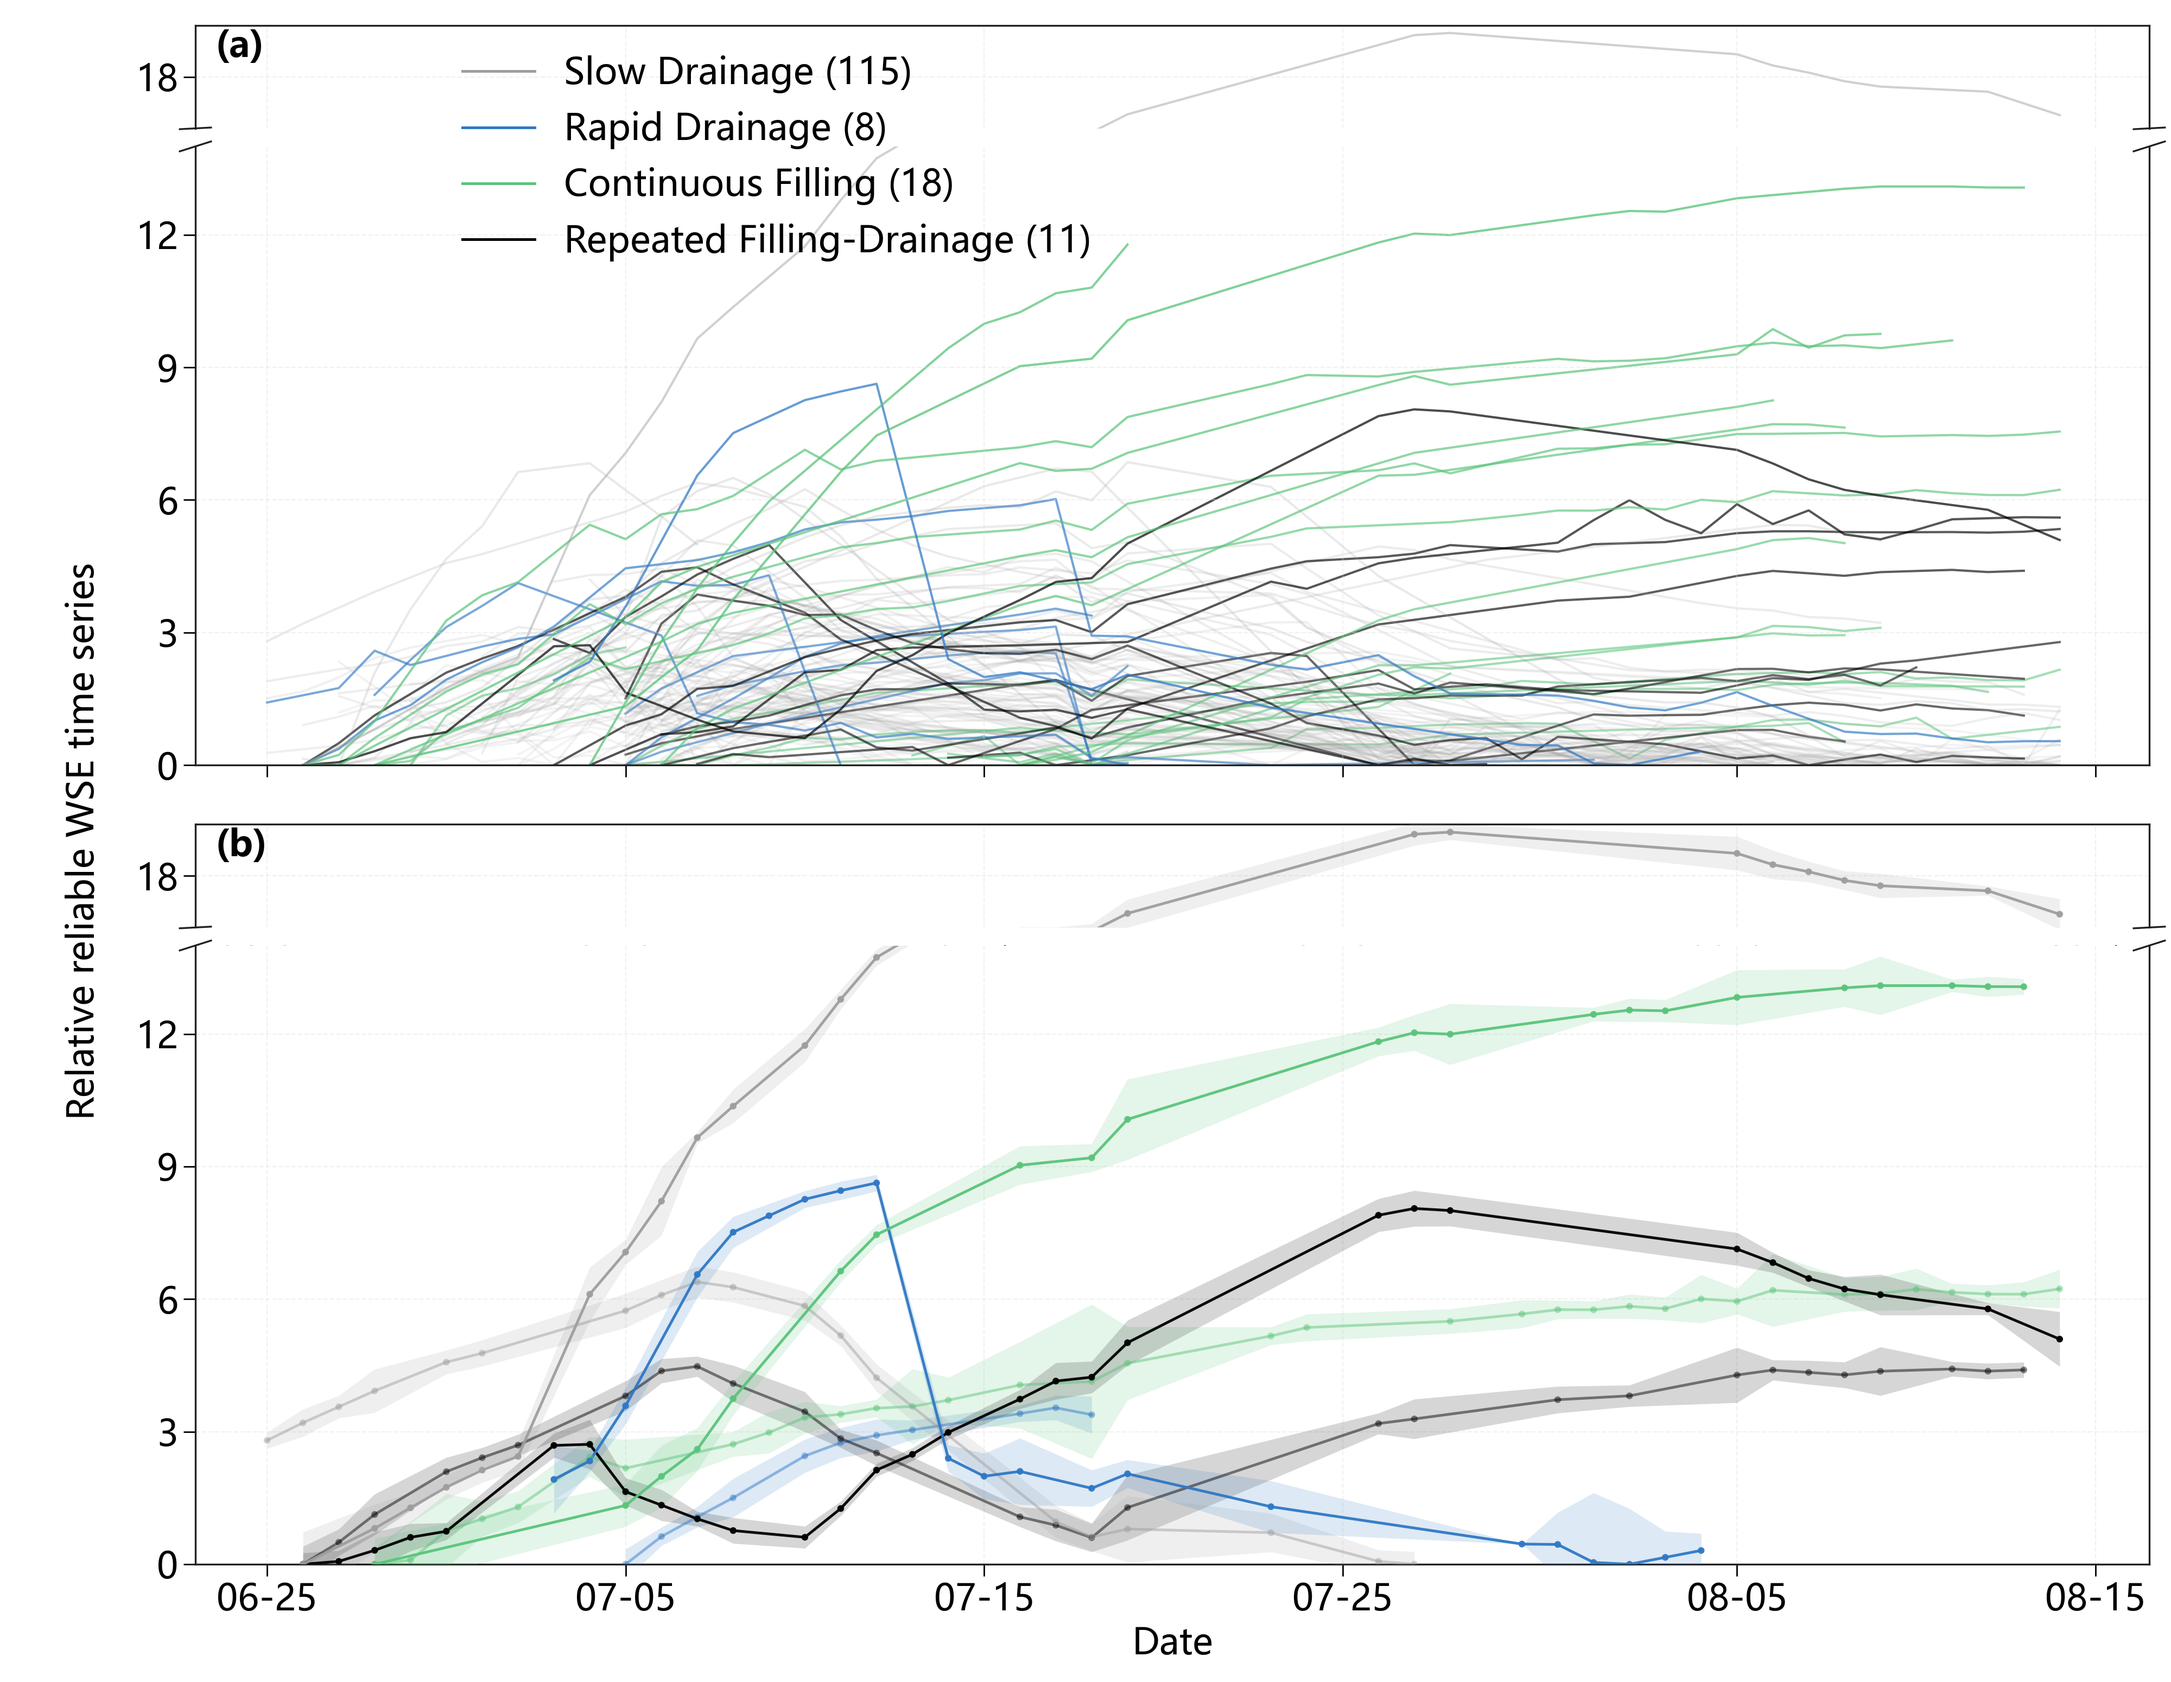
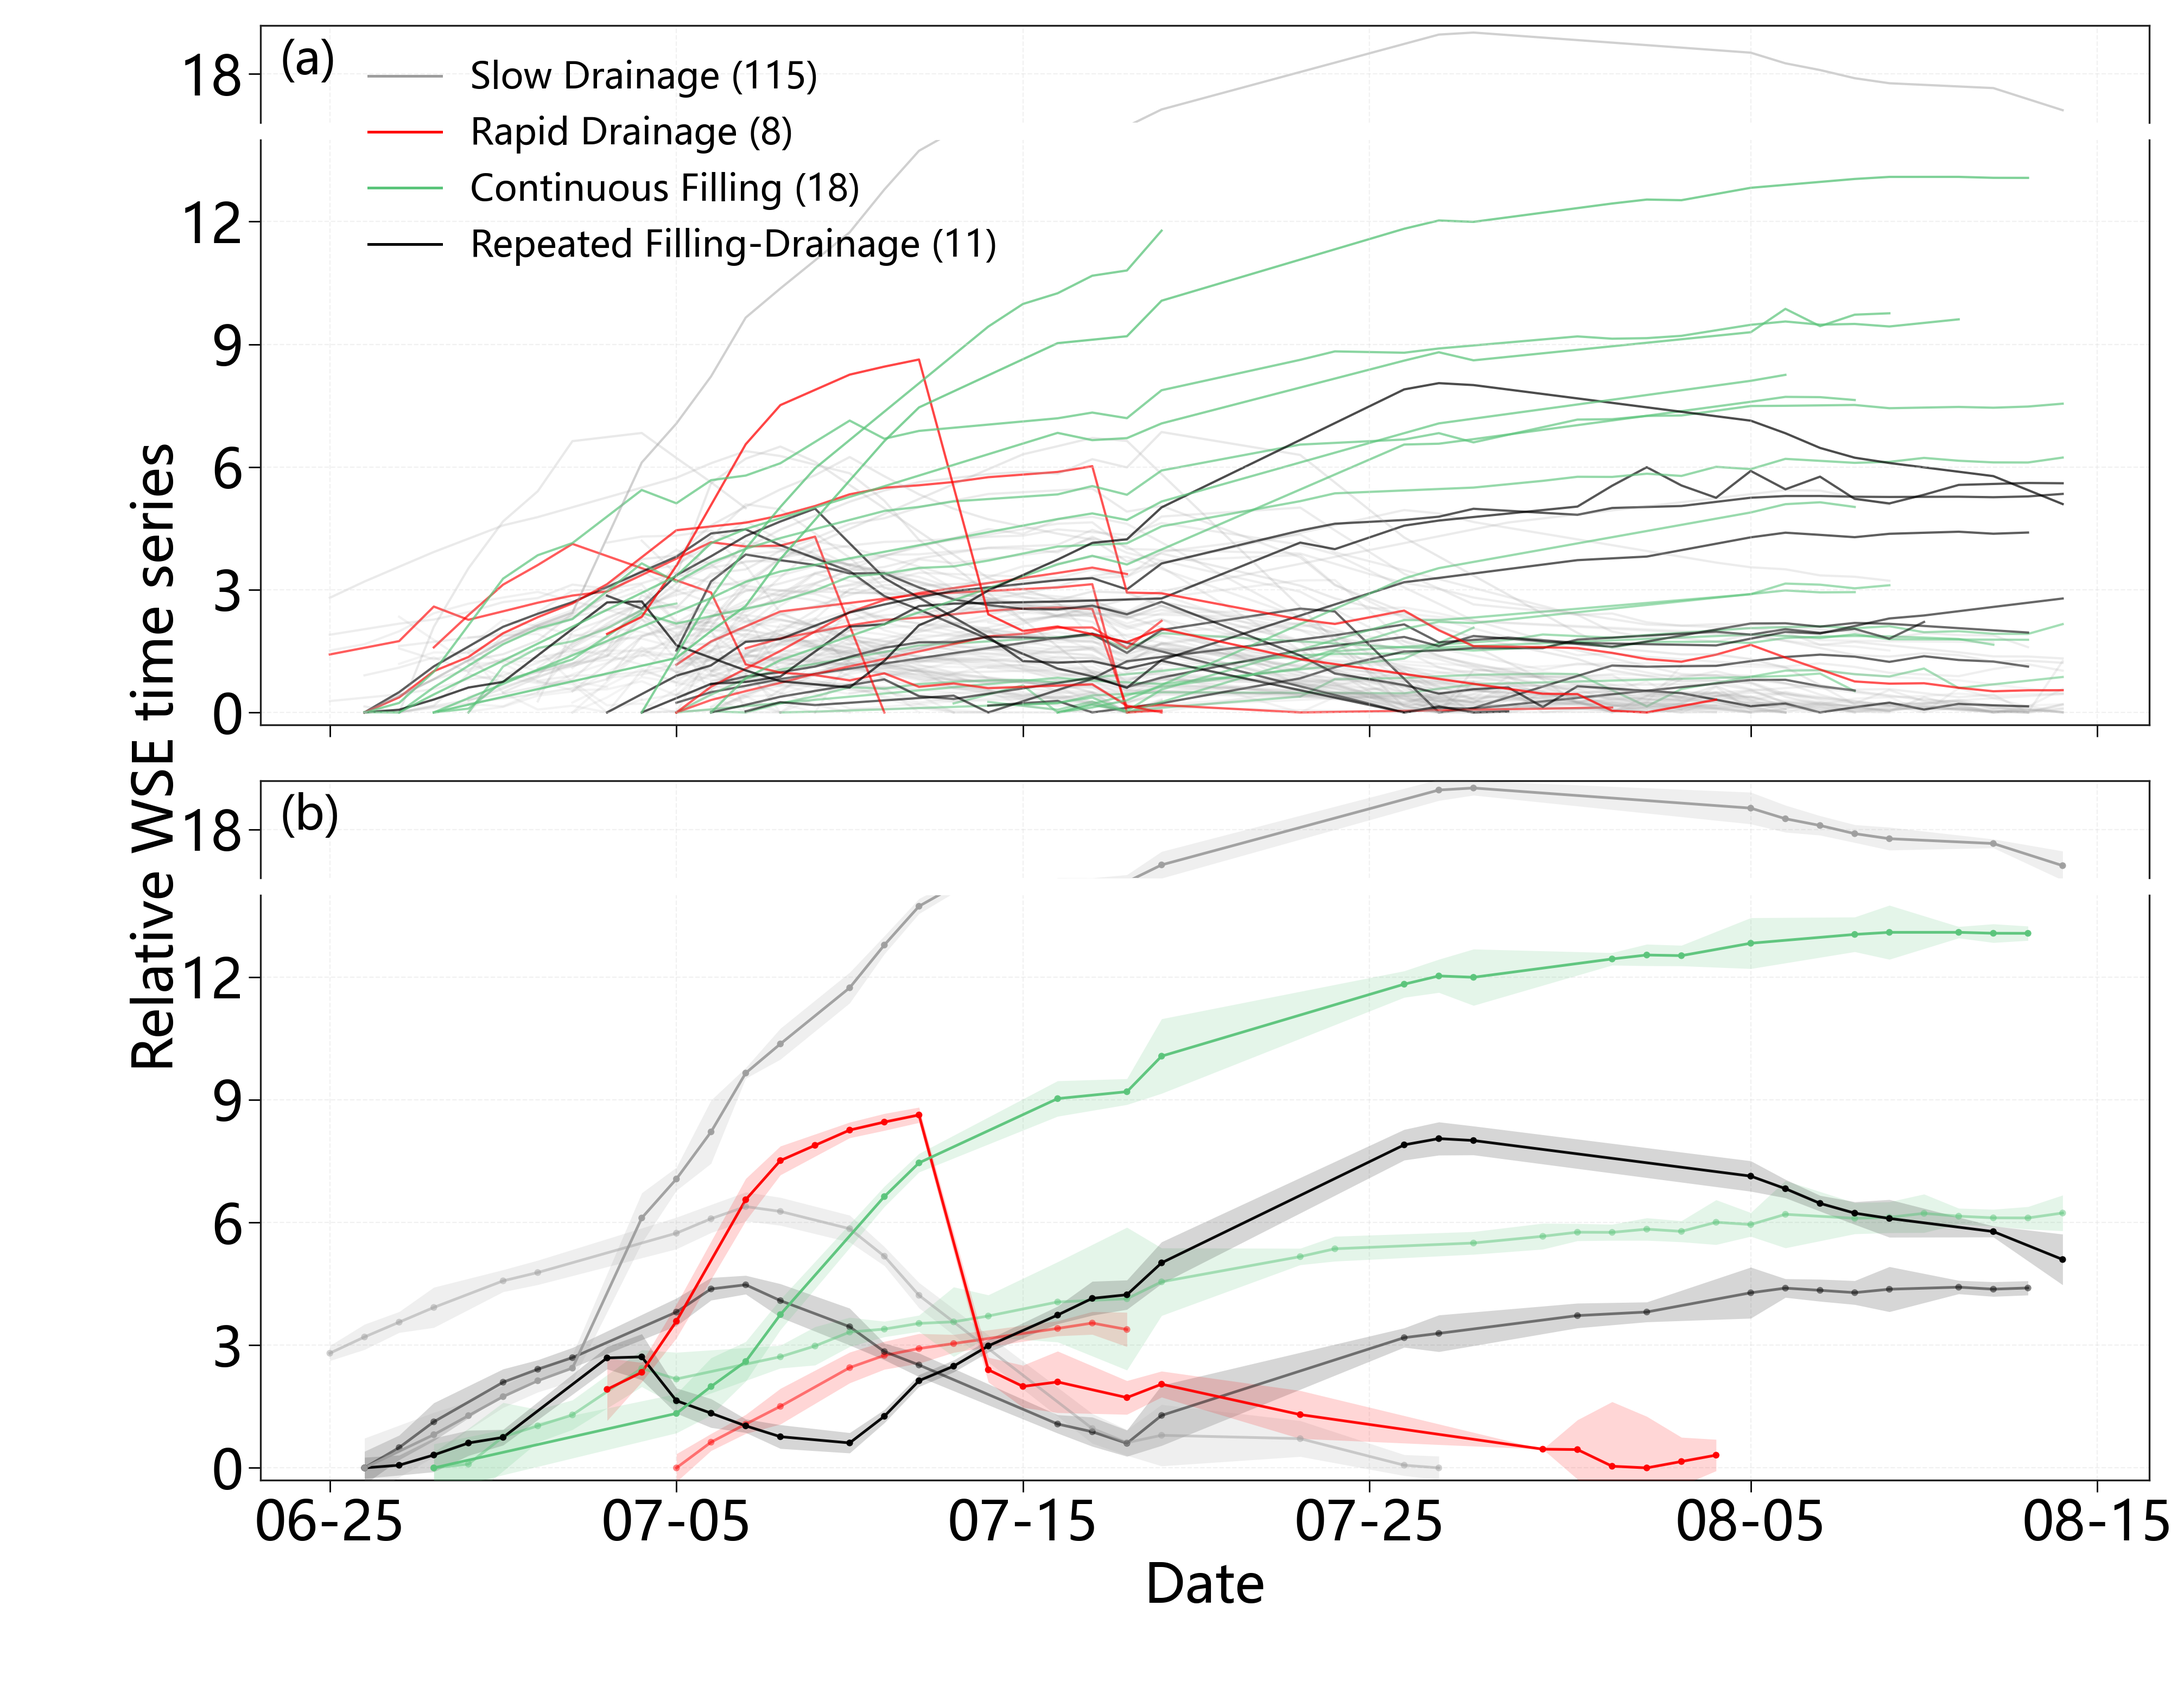
Update final WSE and volume figures

diff --git a/code/northeast/10c_plot_representative_runoff_volume.py b/code/northeast/10c_plot_representative_runoff_volume.py
@@ -13,6 +13,7 @@ import matplotlib
 matplotlib.use("Agg")
 import matplotlib.dates as mdates
 import matplotlib.pyplot as plt
+from matplotlib.ticker import FormatStrFormatter
 
 
 ROOT = Path(__file__).resolve().parent.parent
@@ -29,13 +30,15 @@ NO_BUFFER_BASIN_CSV = INPUT_ROOT / "six_lake_buffer_sensitivity_10m.csv"
 
 DPI = 300
 # Keep the 07_3 look, but slightly taller so the row is less flattened.
-FIGSIZE = (17.0, 4.10)
+FIGSIZE = (17.0, 5.10)
 
 FONT_FAMILY = "Arial"
 LABEL_SIZE = 20
-AXIS_LABEL_SIZE = 16
+AXIS_LABEL_SIZE = 24
+DATE_LABEL_SIZE = 30
+UNIT_LABEL_SIZE = 18
 LEGEND_SIZE = 14
-TICK_SIZE = 18
+TICK_SIZE = 27
 SPINE_WIDTH = 1.35
 TICK_WIDTH = 1.35
 TICK_LENGTH = 8
@@ -53,7 +56,7 @@ FIT_ANNOTATION_HALF_SPACING = 0.85
 RUNOFF_MM_PER_1E6M3_PER_KM2 = 1000.0
 LEFT_LABEL_TEXT = r"$10^6$ m$^3$"
 RIGHT_UNIT_TEXT = "mm"
-LEFT_AXIS_LABEL = "Water volume change"
+LEFT_AXIS_LABEL = "SGL storage variation"
 RIGHT_AXIS_LABEL = "Cumulative runoff"
 RATE_LABEL_STYLE = "parallel"
 
@@ -252,6 +255,12 @@ def nice_runoff_axis(values: np.ndarray) -> tuple[float, float, np.ndarray]:
         top = step * 4
         ticks = np.arange(0.0, top + step * 0.5, step)
     return float(-0.04 * top), float(top), ticks
+
+
+def sparse_axis_ticks(ticks: np.ndarray) -> np.ndarray:
+    """Reduce dense y tick labels while retaining the existing axis limits."""
+    ticks = np.asarray(ticks, dtype=float)
+    return ticks[::2] if ticks.size > 4 else ticks
 
 
 def volume_to_runoff_mm(volume_1e6_m3: np.ndarray | float, basin_area_km2: float) -> np.ndarray | float:
@@ -614,19 +623,21 @@ def setup_dual_axes(
 ) -> tuple[plt.Axes, plt.Axes]:
     """Plot volume on the left and equivalent water depth on the right."""
     ax_left.set_ylim(volume_ymin, volume_ymax)
-    ax_left.set_yticks(volume_yticks)
+    ax_left.set_yticks(sparse_axis_ticks(volume_yticks))
+    ax_left.yaxis.set_major_formatter(FormatStrFormatter("%.1f"))
     ax_left.yaxis.set_label_position("left")
     ax_left.yaxis.tick_left()
     ax_left.spines["right"].set_visible(False)
     ax_left.tick_params(axis="y", labelsize=TICK_SIZE, width=TICK_WIDTH, length=TICK_LENGTH, pad=5)
     ax_left.set_ylabel(LEFT_AXIS_LABEL, fontsize=AXIS_LABEL_SIZE, fontweight="bold", labelpad=10)
-    ax_left.text(-0.005, 1.015, LEFT_LABEL_TEXT, transform=ax_left.transAxes, ha="left", va="bottom", fontsize=TICK_SIZE)
+    ax_left.yaxis.set_label_coords(-0.085, 0.5)
+    ax_left.text(-0.005, 1.015, LEFT_LABEL_TEXT, transform=ax_left.transAxes, ha="left", va="bottom", fontsize=UNIT_LABEL_SIZE)
 
     runoff_limits = volume_to_runoff_mm(np.array([volume_ymin, volume_ymax]), basin_area_km2)
     runoff_ymin, runoff_ymax, runoff_yticks = nice_runoff_axis(runoff_limits)
     ax_right = ax_left.twinx()
     ax_right.set_ylim(runoff_ymin, runoff_ymax)
-    ax_right.set_yticks(runoff_yticks)
+    ax_right.set_yticks(sparse_axis_ticks(runoff_yticks))
     ax_right.yaxis.tick_right()
     ax_right.yaxis.set_label_position("right")
     ax_right.spines["left"].set_visible(False)
@@ -654,7 +665,7 @@ def setup_dual_axes(
         transform=ax_right.transAxes,
         ha="right",
         va="bottom",
-        fontsize=TICK_SIZE,
+        fontsize=UNIT_LABEL_SIZE,
         color=runoff_color,
     )
     return ax_left, ax_right
@@ -736,17 +747,26 @@ def draw_single_lake(lake: dict, df: pd.DataFrame) -> None:
     ax.set_xlim(X_MIN, X_MAX)
     ax.set_xticks(X_TICKS)
     ax.xaxis.set_major_formatter(mdates.DateFormatter("%m-%d"))
-    ax.tick_params(axis="x", labelsize=TICK_SIZE, width=TICK_WIDTH, length=TICK_LENGTH, pad=5)
+    show_date_labels = int(lake["lake_id"]) == 30
+    ax.tick_params(
+        axis="x",
+        labelsize=TICK_SIZE,
+        width=TICK_WIDTH,
+        length=TICK_LENGTH,
+        pad=5,
+        labelbottom=show_date_labels,
+    )
+    ax_runoff.tick_params(axis="x", labelbottom=False)
     ax.grid(False)
     ax.set_xlabel(
         "Date" if int(lake["lake_id"]) == 30 else "",
-        fontsize=LABEL_SIZE,
+        fontsize=DATE_LABEL_SIZE,
         fontweight="bold",
         labelpad=8,
     )
     ax_runoff.grid(False)
 
-    fig.subplots_adjust(left=0.11, right=0.90, bottom=0.22, top=0.92)
+    fig.subplots_adjust(left=0.12, right=0.86, bottom=0.24, top=0.86)
     out_png = OUT_DIR / f"{lake['out_name']}.png"
     out_tif = OUT_DIR / f"{lake['out_name']}.tif"
     fig.savefig(out_png, dpi=DPI)
@@ -843,7 +863,15 @@ def draw_stacked_lake(lake: dict, df: pd.DataFrame) -> None:
     ax.set_xlim(X_MIN, X_MAX)
     ax.set_xticks(X_TICKS)
     ax.xaxis.set_major_formatter(mdates.DateFormatter("%m-%d"))
-    ax.tick_params(axis="x", labelsize=TICK_SIZE, width=TICK_WIDTH, length=TICK_LENGTH, pad=5)
+    ax.tick_params(
+        axis="x",
+        labelsize=TICK_SIZE,
+        width=TICK_WIDTH,
+        length=TICK_LENGTH,
+        pad=5,
+        labelbottom=False,
+    )
+    ax_runoff.tick_params(axis="x", labelbottom=False)
     ax.grid(False)
     ax.set_xlabel("")
     ax_runoff.grid(False)
@@ -853,7 +881,7 @@ def draw_stacked_lake(lake: dict, df: pd.DataFrame) -> None:
     legend.get_frame().set_edgecolor("none")
     legend.get_frame().set_alpha(0.86)
 
-    fig.subplots_adjust(left=0.11, right=0.90, bottom=0.22, top=0.92)
+    fig.subplots_adjust(left=0.12, right=0.86, bottom=0.24, top=0.86)
     out_png = OUT_DIR / f"{lake['out_name']}.png"
     out_tif = OUT_DIR / f"{lake['out_name']}.tif"
     fig.savefig(out_png, dpi=DPI)
@@ -913,13 +941,13 @@ def main() -> None:
     for image, box in zip(images, content_boxes):
         crop_box = (
             common_left,
-            max(0, box[1] - 10),
+            max(0, box[1] - 18),
             common_right,
-            min(size[1], box[3] + 10),
+            min(size[1], box[3] + 15),
         )
         cropped.append(image.crop(crop_box))
     row_width = cropped[0].width
-    row_gap = 12
+    row_gap = 2
     total_height = sum(image.height for image in cropped) + row_gap * (len(cropped) - 1)
     stacked = Image.new("RGB", (row_width, total_height), "white")
     y = 0

diff --git a/code/southwest/_engine/07_4_plot_classification.py b/code/southwest/_engine/07_4_plot_classification.py
@@ -124,7 +124,7 @@ CATEGORY_PLOT_SETTINGS = {
     },
     "sudden_drainage": {
         "label": "Sudden Drainage",
-        "color": "#2F78C4",
+        "color": "#FF0000",
         "top_n": 2,
         "manual_branch_pairs": [(79, 1), (123, 1)],
     },
@@ -253,8 +253,8 @@ CURVE_X_TICK_START = "2024-06-05"
 CURVE_X_TICK_DATE_FORMAT = "%m-%d"
 CURVE_X_TICK_ROTATION = 0
 CURVE_TITLE_FONT_SIZE = 14
-CURVE_AXIS_LABEL_FONT_SIZE = 24
-CURVE_TICK_FONT_SIZE = 24
+CURVE_AXIS_LABEL_FONT_SIZE = 36
+CURVE_TICK_FONT_SIZE = 36
 CURVE_TICK_MARK_LENGTH = 8
 CURVE_TICK_MARK_WIDTH = 1
 CURVE_COUNT_TEXT_FONT_SIZE = 12
@@ -275,10 +275,10 @@ CURVE_SPINE_LINEWIDTH = 1.2
 CURVE_COUNT_BOX_ALPHA = 0.8
 CURVE_SHOW_LEGEND = True
 CURVE_EXPORT_STANDALONE_LEGEND = True
-CURVE_LEGEND_FONT_SIZE = CURVE_TICK_FONT_SIZE
+CURVE_LEGEND_FONT_SIZE = 24
 CURVE_LEGEND_LOC = "upper left"
-CURVE_LEGEND_BBOX_TO_ANCHOR = (0.01, 0.98)
-CURVE_LEGEND_BBOX_TO_ANCHOR_BROKEN = (0.015, 1.2)
+CURVE_LEGEND_BBOX_TO_ANCHOR = (0.04, 0.97)
+CURVE_LEGEND_BBOX_TO_ANCHOR_BROKEN = (0.04, 1.0)
 CURVE_LEGEND_FACE_COLOR = "none"
 CURVE_LEGEND_EDGE_COLOR = "none"
 CURVE_LEGEND_FRAME_ALPHA = 0.0
@@ -919,19 +919,11 @@ def apply_broken_y_axis_format(ax_top, ax_bottom):
     ax_bottom.set_ylim(y_min, float(CURVE_BROKEN_Y_LOWER_MAX))
     ax_top.set_ylim(float(CURVE_BROKEN_Y_UPPER_MIN), y_max)
 
-    # Hide touching spines and add break marks.
+    # Hide touching spines; the axis gap alone indicates the truncation.
     ax_top.spines["bottom"].set_visible(False)
     ax_bottom.spines["top"].set_visible(False)
-    ax_top.tick_params(labeltop=False, bottom=False)
+    ax_top.tick_params(axis="x", top=False, bottom=False, labeltop=False, labelbottom=False)
     ax_bottom.xaxis.tick_bottom()
-
-    d = 0.008
-    kwargs = dict(transform=ax_top.transAxes, color=CURVE_SPINE_COLOR, clip_on=False, linewidth=CURVE_SPINE_LINEWIDTH)
-    ax_top.plot((-d, +d), (-d, +d), **kwargs)
-    ax_top.plot((1 - d, 1 + d), (-d, +d), **kwargs)
-    kwargs.update(transform=ax_bottom.transAxes)
-    ax_bottom.plot((-d, +d), (1 - d, 1 + d), **kwargs)
-    ax_bottom.plot((1 - d, 1 + d), (1 - d, 1 + d), **kwargs)
 
     lower_ticks = [
         v

diff --git a/code/southwest/_engine/07_4_plot_classification_combined.py b/code/southwest/_engine/07_4_plot_classification_combined.py
@@ -84,12 +84,9 @@ def style_curve_axes(
             ax.set_xlabel("")
         else:
             ax.set_xlabel(base.CURVE_X_LABEL_TEXT, fontsize=base.CURVE_AXIS_LABEL_FONT_SIZE)
-        if base.CURVE_USE_BROKEN_Y_AXIS and ax_top is not None:
-            ax.set_ylabel("")
+        ax.set_ylabel("")
+        if ax_top is not None:
             ax_top.set_ylabel("")
-            fig.supylabel("Relative WSE time series", fontsize=base.CURVE_AXIS_LABEL_FONT_SIZE, x=0.04)
-        else:
-            ax.set_ylabel("Relative WSE time series", fontsize=base.CURVE_AXIS_LABEL_FONT_SIZE)
     else:
         ax.set_xlabel("")
         ax.set_ylabel("")
@@ -315,13 +312,13 @@ def plot_same_color_panel(
     if show_legend and base.CURVE_SHOW_LEGEND and legend_source:
         handles, labels = base.build_category_legend_handles_labels(legend_source, out_path_for_labels)
         if handles:
-            target_ax = ax
-            bbox_anchor = base.CURVE_LEGEND_BBOX_TO_ANCHOR_BROKEN if ax_top is not None else base.CURVE_LEGEND_BBOX_TO_ANCHOR
-            target_ax.legend(
+            target_ax = ax_top if ax_top is not None else ax
+            fig.legend(
                 handles,
                 labels,
                 loc=base.CURVE_LEGEND_LOC,
-                bbox_to_anchor=(0.04, bbox_anchor[1]),
+                bbox_to_anchor=(0.04, 0.98),
+                bbox_transform=target_ax.transAxes,
                 fontsize=base.CURVE_LEGEND_FONT_SIZE,
                 frameon=True,
                 facecolor=base.CURVE_LEGEND_FACE_COLOR,
@@ -540,7 +537,8 @@ def run_for_method_combined(method_paths: Dict[str, str], elev_map: Dict[int, fl
         panel_label="(b)",
     )
 
-    fig.subplots_adjust(left=0.09, right=0.99, top=0.985, bottom=0.07)
+    fig.supylabel("Relative WSE time series", fontsize=base.CURVE_AXIS_LABEL_FONT_SIZE, x=0.06, y=0.55)
+    fig.subplots_adjust(left=0.12, right=0.99, top=0.985, bottom=0.12)
     out_path = Path(method_paths["plot_dir"]) / "GroupPlot_RelWSE_Combined_TopSummary_BottomAllCurves.png"
     out_path.parent.mkdir(parents=True, exist_ok=True)
     fig.savefig(out_path, dpi=base.CURVE_DPI)

diff --git a/code/northeast/_engine/06_3_plot_branchwise_red_chain_with_merge_anchor.py b/code/northeast/_engine/06_3_plot_branchwise_red_chain_with_merge_anchor.py
@@ -26,7 +26,7 @@ SCRIPT_DIR = Path(__file__).resolve().parent
 BASE_SCRIPT_PATH = SCRIPT_DIR / "copy_code" / "06_2_plot_single_red_chain_with_uncertainty.py"
 
 TARGET_SIZE_CATEGORIES = []
-EXCLUDED_LAKE_IDS = {115, 124, 168, 180, 184}
+#EXCLUDED_LAKE_IDS = {115, 124, 168, 180, 184}
 # Hard exclusion at branch level: these branches are skipped entirely in 06_3 outputs.
 EXCLUDED_LAKE_BRANCHES = {
     (177, 1),
